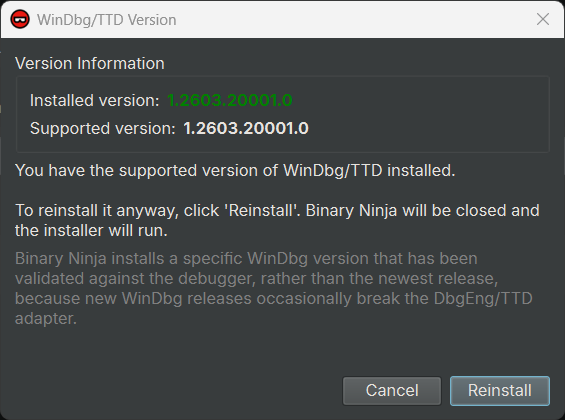
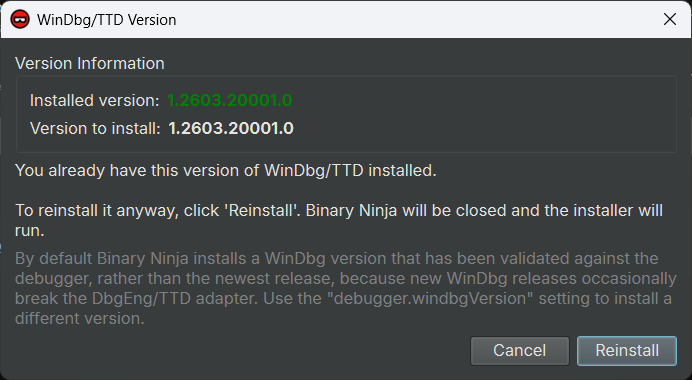
Document the debugger.windbgVersion setting, refresh the dialog screenshot

Changed region(s): [[0.0, 0.0, 1.0, 0.8684], [0.6018, 0.8684, 0.9929, 0.9842]]

diff --git a/docs/guide/dbgeng-ttd.md b/docs/guide/dbgeng-ttd.md
@@ -34,7 +34,18 @@ The automatic installer handles all the complexity of downloading and extracting
 
 By default, the installer installs a WinDbg version that has been validated against the debugger, rather than the newest release.
 New WinDbg releases occasionally ship regressions that break the DbgEng/TTD adapter, so the default version is bumped only after the new release has been tested.
-To install a different released version, set `debugger.windbgVersion` in the settings before running the installer.
+
+#### Select the WinDbg Version to Install
+
+The version that the installer downloads is controlled by the `debugger.windbgVersion` setting:
+
+- In Binary Ninja, open the Settings view via the menu `Edit` -> `Settings`, or use the shortcut (Ctrl+,)
+- Search for `debugger.windbgVersion`
+- Set it to the version you wish to install, e.g., `1.2603.20001.0`
+    - Any released WinDbg version can be used, as long as Microsoft still hosts its MSIX bundle at
+      `https://windbg.download.prss.microsoft.com/dbazure/prod/<version-with-dashes>/windbg.msixbundle`
+    - Leave it at its default value unless you have a reason to use a different version
+- Click `Debugger` -> `Install WinDbg/TTD` to install the version you have set
 
 ### Reinstall WinDbg/TTD
 
